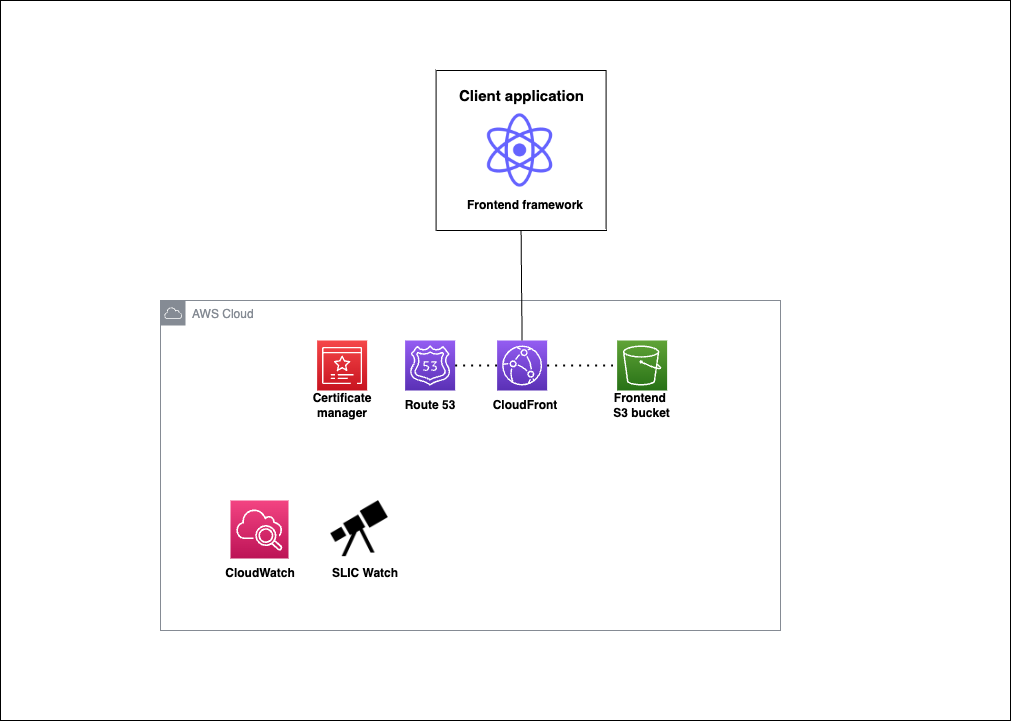
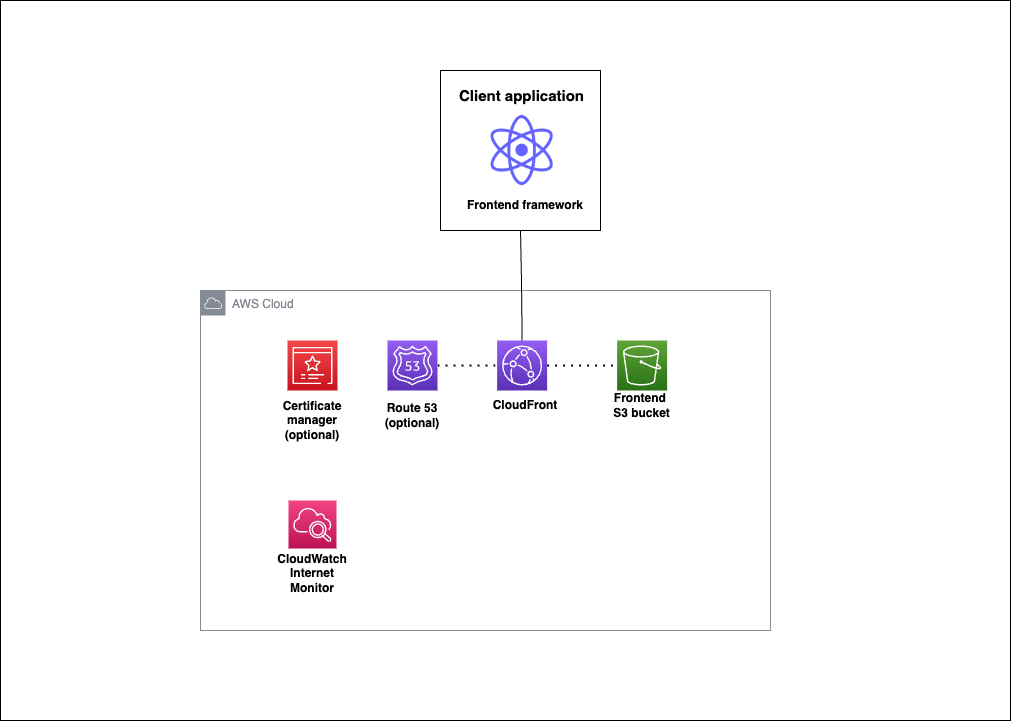
Update archtitecture diagram and explaination of services

diff --git a/README.md b/README.md
@@ -24,11 +24,15 @@ project-root/
 
 ## Project architecture diagram 
 
-![Static site starter architecture diagram](architecture digram.png)
+![Static site starter architecture diagram](architecture-diagram.png)
 
-<!-- display frontend-starter.png -->
+A CloudFront distribution serves static content using the S3 bucket as the origin. The CloudFront distribution is configured to use the S3 bucket as the origin. These resources are always provisioned. 
 
+Optionally users can can configure the template to use a custom domain name. If the user provides a Route53 Hosted Zone ID the template will edit an existing hosted zone. If the user does not provide a Route53 Hosted Zone ID the template will create a new one. An ACM certificate is created for the custom domain name which edits the hosted zone to add an Alias record for the CloudFront distribution.
 
+CloudWatch Internet Monitor is used to monitor the health of the domain name. If the domain name does not respond to a request 3 times, the CloudWatch Internet Monitor will trigger an alarm. 
+
+Although a frontend appliation is not included in the frontend starter 
 
 ## Requirements 
 
